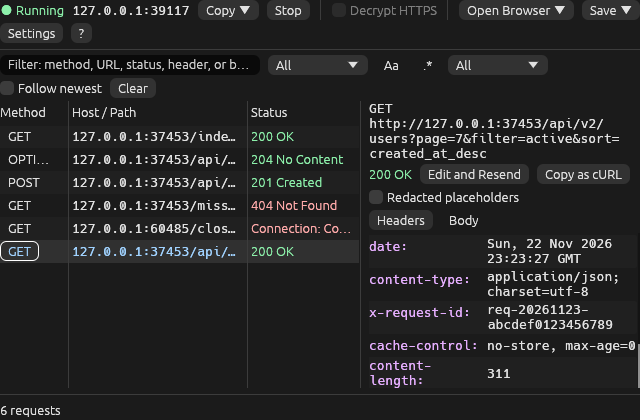
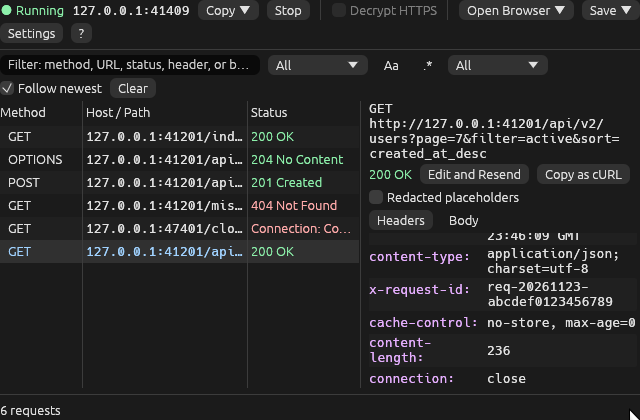
fix: widen method column, unblock table resize, and repaint split drag
- Widen Method column to 78px (and 22% share when narrow) with hover tooltip so standard methods like OPTIONS render without truncation across narrow and wide windows.
- Remove set_max_width(total_width) inside the horizontal ScrollArea while keeping set_min_width(total_width) so manual column resizing expands the table instead of crushing sibling columns.
- Request an immediate repaint when the split divider is dragged or released so the final position applies without waiting for another input or timer even when the proxy is stopped.
- Keep clipped.clip_rect without intersecting viewport in collect_text_shapes so viewport overflow assertions detect real overflows instead of being tautological, and add regression tests for OPTIONS rendering, manual column expansion, and split drag restore.
- Refresh after/headers/recovered screenshots captured with the release binary under Xvfb.

diff --git a/src/ui/mod.rs b/src/ui/mod.rs
@@ -423,6 +423,9 @@ impl InspectorApp {
             rect.y_range(),
         );
         let handle = main.interact(handle_rect, split_id, egui::Sense::drag());
+        if handle.dragged() || handle.drag_stopped() {
+            main.ctx().request_repaint();
+        }
         if handle.hovered() || handle.dragged() {
             main.ctx()
                 .set_cursor_icon(egui::CursorIcon::ResizeHorizontal);
@@ -468,9 +471,9 @@ mod layout_tests {
     use super::{
         DEFAULT_DETAIL_SHARE, DEFAULT_WINDOW, DetailTab, InspectorApp, MAX_RECORDS,
         MIN_DETAIL_WIDTH, MIN_MAIN_HEIGHT, MIN_TABLE_WIDTH, MIN_WINDOW, PortChoice, RecordFilter,
-        body_display, body_format, body_saving, browser_panel, ca_panel, copy_curl, har_dialog,
-        image_view, main_height, port_settings, records, replay_panel, request_table, save, search,
-        split_detail_width, theme, toolbar,
+        body_display, body_format, body_saving, browser_panel, ca_panel, copy_curl, fonts,
+        har_dialog, image_view, main_height, port_settings, records, replay_panel, request_table,
+        save, search, split_detail_width, theme, toolbar,
     };
     use eframe::egui;
     use http_proxy::{Exchange, ProxyConfig, ProxyHandle};
@@ -480,6 +483,7 @@ mod layout_tests {
     use tokio::time::timeout;
 
     fn test_app(context: egui::Context) -> InspectorApp {
+        fonts::configure_fonts(&context);
         InspectorApp {
             theme: theme::ThemeSettings::new(&context),
             replay: None,
@@ -548,13 +552,10 @@ mod layout_tests {
         rect: egui::Rect,
     }
 
-    fn collect_text_shapes(
-        shapes: &[egui::epaint::ClippedShape],
-        viewport: egui::Rect,
-    ) -> Vec<DrawnText> {
+    fn collect_text_shapes(shapes: &[egui::epaint::ClippedShape]) -> Vec<DrawnText> {
         let mut drawn = Vec::new();
         for clipped in shapes {
-            let clip = clipped.clip_rect.intersect(viewport);
+            let clip = clipped.clip_rect;
             if !clip.is_positive() {
                 continue;
             }
@@ -617,19 +618,33 @@ mod layout_tests {
         }
     }
 
-    fn render_settled(app: &mut InspectorApp, size: [f32; 2]) -> Vec<DrawnText> {
+    fn render_frame(
+        app: &mut InspectorApp,
+        size: [f32; 2],
+        events: Vec<egui::Event>,
+    ) -> (Vec<DrawnText>, Duration) {
         let viewport = egui::Rect::from_min_size(egui::Pos2::ZERO, egui::vec2(size[0], size[1]));
+        let input = egui::RawInput {
+            screen_rect: Some(viewport),
+            events,
+            ..Default::default()
+        };
+        let mut output = app.context.clone().run_ui(input, |ui| {
+            egui::CentralPanel::default().show(ui, |ui| app.render_ui(ui));
+        });
+        output.textures_delta.clear();
+        let repaint_delay = output
+            .viewport_output
+            .get(&egui::ViewportId::ROOT)
+            .map_or(Duration::MAX, |viewport_out| viewport_out.repaint_delay);
+        (collect_text_shapes(&output.shapes), repaint_delay)
+    }
+
+    fn render_settled(app: &mut InspectorApp, size: [f32; 2]) -> Vec<DrawnText> {
         let mut drawn = Vec::new();
         for _ in 0..4 {
-            let input = egui::RawInput {
-                screen_rect: Some(viewport),
-                ..Default::default()
-            };
-            let mut output = app.context.clone().run_ui(input, |ui| {
-                egui::CentralPanel::default().show(ui, |ui| app.render_ui(ui));
-            });
-            output.textures_delta.clear();
-            drawn = collect_text_shapes(&output.shapes, viewport);
+            let (frame_drawn, _) = render_frame(app, size, Vec::new());
+            drawn = frame_drawn;
         }
         drawn
     }
@@ -716,6 +731,15 @@ mod layout_tests {
             let drawn = render_settled(&mut app, size);
             assert!(!drawn.is_empty(), "expected painted text at {size:?}");
             assert_no_text_overlap(&drawn, viewport, &format!("headers@{size:?}"));
+            assert!(
+                drawn.iter().any(|item| item.text == "OPTIONS"),
+                "expected untruncated OPTIONS method at {size:?}, got methods: {:?}",
+                drawn
+                    .iter()
+                    .filter(|item| item.text.starts_with("OPT"))
+                    .map(|item| &item.text)
+                    .collect::<Vec<_>>(),
+            );
 
             // At 640x900, query parameters and wrapped request/response headers are all visible.
             if (size[0] - MIN_WINDOW[0]).abs() < 1.0 && (size[1] - 900.0).abs() < 1.0 {
@@ -763,6 +787,112 @@ mod layout_tests {
         Ok(())
     }
 
+    fn drag_pointer(
+        app: &mut InspectorApp,
+        size: [f32; 2],
+        from: egui::Pos2,
+        to: egui::Pos2,
+    ) -> (Duration, Duration) {
+        let _ = render_frame(app, size, vec![egui::Event::PointerMoved(from)]);
+        let _ = render_frame(
+            app,
+            size,
+            vec![egui::Event::PointerButton {
+                pos: from,
+                button: egui::PointerButton::Primary,
+                pressed: true,
+                modifiers: egui::Modifiers::NONE,
+            }],
+        );
+        let (_, drag_delay) = render_frame(app, size, vec![egui::Event::PointerMoved(to)]);
+        let (_, release_delay) = render_frame(
+            app,
+            size,
+            vec![egui::Event::PointerButton {
+                pos: to,
+                button: egui::PointerButton::Primary,
+                pressed: false,
+                modifiers: egui::Modifiers::NONE,
+            }],
+        );
+        (drag_delay, release_delay)
+    }
+
+    fn text_left(drawn: &[DrawnText], label: &str) -> Result<f32, String> {
+        drawn
+            .iter()
+            .find(|item| item.text == label)
+            .map(|item| item.rect.left())
+            .ok_or_else(|| format!("missing {label:?} text"))
+    }
+
+    #[tokio::test]
+    async fn split_divider_drag_repaints_and_restores_across_resize()
+    -> Result<(), Box<dyn std::error::Error>> {
+        let exchanges = timeout(Duration::from_secs(5), capture_sample_exchanges()).await??;
+        let mut app = test_app(egui::Context::default());
+        for exchange in exchanges {
+            app.selected = Some(exchange.id());
+            let _evicted = app.records.push(exchange);
+        }
+
+        let wide = [1_100.0, 700.0];
+        let initial_edit_left = text_left(&render_settled(&mut app, wide), "Edit and Resend")?;
+
+        // CentralPanel defaults to 8px horizontal margin on each side.
+        let main_width = wide[0] - 16.0;
+        let start_x = (8.0 + main_width - split_detail_width(main_width, app.detail_share)).round();
+        let (drag_delay, release_delay) = drag_pointer(
+            &mut app,
+            wide,
+            egui::pos2(start_x, 360.0),
+            egui::pos2(start_x - 140.0, 360.0),
+        );
+        assert_eq!(
+            drag_delay,
+            Duration::ZERO,
+            "dragging the split divider must request an immediate repaint"
+        );
+        assert_eq!(
+            release_delay,
+            Duration::ZERO,
+            "releasing the split divider must request an immediate repaint for the final position"
+        );
+
+        let (after_drag, _) = render_frame(&mut app, wide, Vec::new());
+        assert!(
+            app.detail_share > 0.50,
+            "expected dragged detail_share > 0.50, got {}",
+            app.detail_share
+        );
+        let dragged_share = app.detail_share;
+        let dragged_edit_left = text_left(&after_drag, "Edit and Resend")?;
+        assert!(
+            dragged_edit_left < initial_edit_left - 100.0,
+            "details pane should widen immediately after drag release: before={initial_edit_left}, after={dragged_edit_left}"
+        );
+
+        // Shrink to minimum size: clamped cleanly without overwriting the user's preferred share.
+        let min_viewport =
+            egui::Rect::from_min_size(egui::Pos2::ZERO, egui::vec2(MIN_WINDOW[0], MIN_WINDOW[1]));
+        let narrow_drawn = render_settled(&mut app, MIN_WINDOW);
+        assert_no_text_overlap(&narrow_drawn, min_viewport, "dragged-shrunk@640x420");
+        assert!((app.detail_share - dragged_share).abs() < f32::EPSILON);
+
+        // Enlarge back to wide: user-dragged split width is restored.
+        let wide_viewport =
+            egui::Rect::from_min_size(egui::Pos2::ZERO, egui::vec2(wide[0], wide[1]));
+        let restored_drawn = render_settled(&mut app, wide);
+        assert_no_text_overlap(&restored_drawn, wide_viewport, "dragged-restored@1100x700");
+        let restored_edit_left = text_left(&restored_drawn, "Edit and Resend")?;
+        assert!(
+            (restored_edit_left - dragged_edit_left).abs() < 4.0,
+            "expected restored detail position near {dragged_edit_left}, got {restored_edit_left}"
+        );
+
+        Ok(())
+    }
+
     #[tokio::test]
     async fn dialogs_fit_minimum_window_without_text_overlap()
     -> Result<(), Box<dyn std::error::Error>> {
@@ -773,6 +903,7 @@ mod layout_tests {
 
         // Export HAR dialog at 640x420.
         let ctx = egui::Context::default();
+        fonts::configure_fonts(&ctx);
         let mut har = har_dialog::HarDialog::default();
         har.open("/tmp/example-export-path/session-20261123.har".to_owned());
         let counts = har_dialog::ScopeCounts {
@@ -789,13 +920,14 @@ mod layout_tests {
                 let _ = har.show(ui.ctx(), counts, false);
             });
             output.textures_delta.clear();
-            drawn = collect_text_shapes(&output.shapes, viewport);
+            drawn = collect_text_shapes(&output.shapes);
         }
         assert_no_text_overlap(&drawn, viewport, "har-dialog@640x420");
         assert!(drawn.iter().any(|item| item.text == "Cancel"));
 
         // Replay editor at 640x420.
         let ctx = egui::Context::default();
+        fonts::configure_fonts(&ctx);
         let mut replay = replay_panel::ReplayPanel::new(sample)?;
         let mut drawn = Vec::new();
         for _ in 0..3 {
@@ -807,7 +939,7 @@ mod layout_tests {
                 let _ = replay.show(ui.ctx(), None, None);
             });
             output.textures_delta.clear();
-            drawn = collect_text_shapes(&output.shapes, viewport);
+            drawn = collect_text_shapes(&output.shapes);
         }
         assert_no_text_overlap(&drawn, viewport, "replay-panel@640x420");
 
@@ -825,7 +957,7 @@ mod layout_tests {
                 app.bulk_body_save(ui.ctx());
             });
             output.textures_delta.clear();
-            drawn = collect_text_shapes(&output.shapes, viewport);
+            drawn = collect_text_shapes(&output.shapes);
         }
         assert_no_text_overlap(&drawn, viewport, "bulk-save@640x420");
         assert!(drawn.iter().any(|item| item.text == "Save"));

diff --git a/src/ui/request_table.rs b/src/ui/request_table.rs
@@ -260,7 +260,6 @@ impl RequestTable {
             .auto_shrink([false, false])
             .show(ui, |ui| {
                 ui.set_min_width(total_width);
-                ui.set_max_width(total_width);
                 self.show_table(
                     ui,
                     &rows,
@@ -363,7 +362,7 @@ impl RequestTable {
 /// that fit cleanly without slicing the next column at the pane border, while
 /// the remaining columns stay reachable via horizontal scrolling.
 fn column_widths(viewport_width: f32, spacing_x: f32, scroll_gutter: f32) -> [f32; 6] {
-    const METHOD: f32 = 64.0;
+    const METHOD: f32 = 78.0;
     const STATUS_WIDE: f32 = 112.0;
     const STATUS_COMPACT: f32 = 104.0;
     const TYPE: f32 = 48.0;
@@ -393,7 +392,7 @@ fn column_widths(viewport_width: f32, spacing_x: f32, scroll_gutter: f32) -> [f3
         return [METHOD, target, STATUS_COMPACT, TYPE, SIZE, DURATION];
     }
 
-    let method = METHOD.min((visible * 0.20).floor().max(Field::Method.min_width()));
+    let method = METHOD.min((visible * 0.22).floor().max(Field::Method.min_width()));
     let status = STATUS_COMPACT.min((visible * 0.30).floor().max(Field::Status.min_width()));
     let target = spacing_x
         .mul_add(-2.0, visible - method - status - EDGE_PAD)
@@ -473,9 +472,10 @@ fn show_cells(
     let mut clicked = false;
     row.col(|ui| {
         ui.push_id(record.id(), |ui| {
-            let response = ui.add(
-                egui::Button::selectable(selected, record.request().method().as_str()).truncate(),
-            );
+            let method = record.request().method().as_str();
+            let response = ui
+                .add(egui::Button::selectable(selected, method).truncate())
+                .on_hover_text(method);
             response.widget_info(|| {
                 egui::WidgetInfo::selected(
                     egui::Role::ListBoxOption,
@@ -763,5 +763,95 @@ mod tests {
         assert!(wide_total <= 740.0);
         assert!(wide[1] > narrow[1]);
         assert!(wide[1] >= 250.0);
+    }
+
+    fn header_left(shapes: &[egui::epaint::ClippedShape], label: &str) -> Option<f32> {
+        fn find_in_shape(shape: &egui::Shape, label: &str) -> Option<f32> {
+            match shape {
+                egui::Shape::Text(text) if text.galley.text().trim() == label => {
+                    Some(text.visual_bounding_rect().left())
+                }
+                egui::Shape::Vec(items) => items.iter().find_map(|item| find_in_shape(item, label)),
+                _ => None,
+            }
+        }
+        shapes
+            .iter()
+            .find_map(|clipped| find_in_shape(&clipped.shape, label))
+    }
+
+    #[test]
+    fn manual_column_resize_expands_column_and_persists() -> Result<(), Box<dyn std::error::Error>>
+    {
+        let ctx = egui::Context::default();
+        let mut table = RequestTable::new();
+        let viewport = egui::Rect::from_min_size(egui::Pos2::ZERO, egui::vec2(740.0, 300.0));
+        let mut run = |events: Vec<egui::Event>| {
+            let input = egui::RawInput {
+                screen_rect: Some(viewport),
+                events,
+                ..Default::default()
+            };
+            let mut output = ctx.run_ui(input, |ui| {
+                egui::CentralPanel::default()
+                    .frame(egui::Frame::NONE)
+                    .show(ui, |ui| {
+                        let _ = table.show(ui, Vec::new(), None, false);
+                    });
+            });
+            output.textures_delta.clear();
+            output.shapes
+        };
+
+        let mut shapes = Vec::new();
+        for _ in 0..3 {
+            shapes = run(Vec::new());
+        }
+        let before_target =
+            header_left(&shapes, "Host / Path").ok_or("missing Host / Path header")?;
+        let before_size = header_left(&shapes, "Size").ok_or("missing Size header")?;
+
+        // Column 0 resize handle sits halfway across the spacing between Method and Host / Path.
+        let handle_x = before_target - 4.0;
+        let drag_y = 12.0;
+        let _ = run(vec![egui::Event::PointerMoved(egui::pos2(
+            handle_x, drag_y,
+        ))]);
+        let _ = run(vec![egui::Event::PointerButton {
+            pos: egui::pos2(handle_x, drag_y),
+            button: egui::PointerButton::Primary,
+            pressed: true,
+            modifiers: egui::Modifiers::NONE,
+        }]);
+        let _ = run(vec![egui::Event::PointerMoved(egui::pos2(
+            handle_x + 80.0,
+            drag_y,
+        ))]);
+        let _ = run(vec![egui::Event::PointerButton {
+            pos: egui::pos2(handle_x + 80.0, drag_y),
+            button: egui::PointerButton::Primary,
+            pressed: false,
+            modifiers: egui::Modifiers::NONE,
+        }]);
+
+        let settled = run(Vec::new());
+        let after_target =
+            header_left(&settled, "Host / Path").ok_or("missing Host / Path header after drag")?;
+        let after_size = header_left(&settled, "Size").ok_or("missing Size header after drag")?;
+        assert!(
+            after_target > before_target + 60.0,
+            "expected Method column expansion to shift Host / Path right: before={before_target}, after={after_target}"
+        );
+        assert!(
+            after_size > before_size + 60.0,
+            "expected later columns to shift right instead of being crushed: before={before_size}, after={after_size}"
+        );
+
+        // Width stays preserved on subsequent frames while viewport width is unchanged.
+        let next = run(Vec::new());
+        let next_target = header_left(&next, "Host / Path")
+            .ok_or("missing Host / Path header on subsequent frame")?;
+        assert!((next_target - after_target).abs() < 1.0);
+        Ok(())
     }
 }
